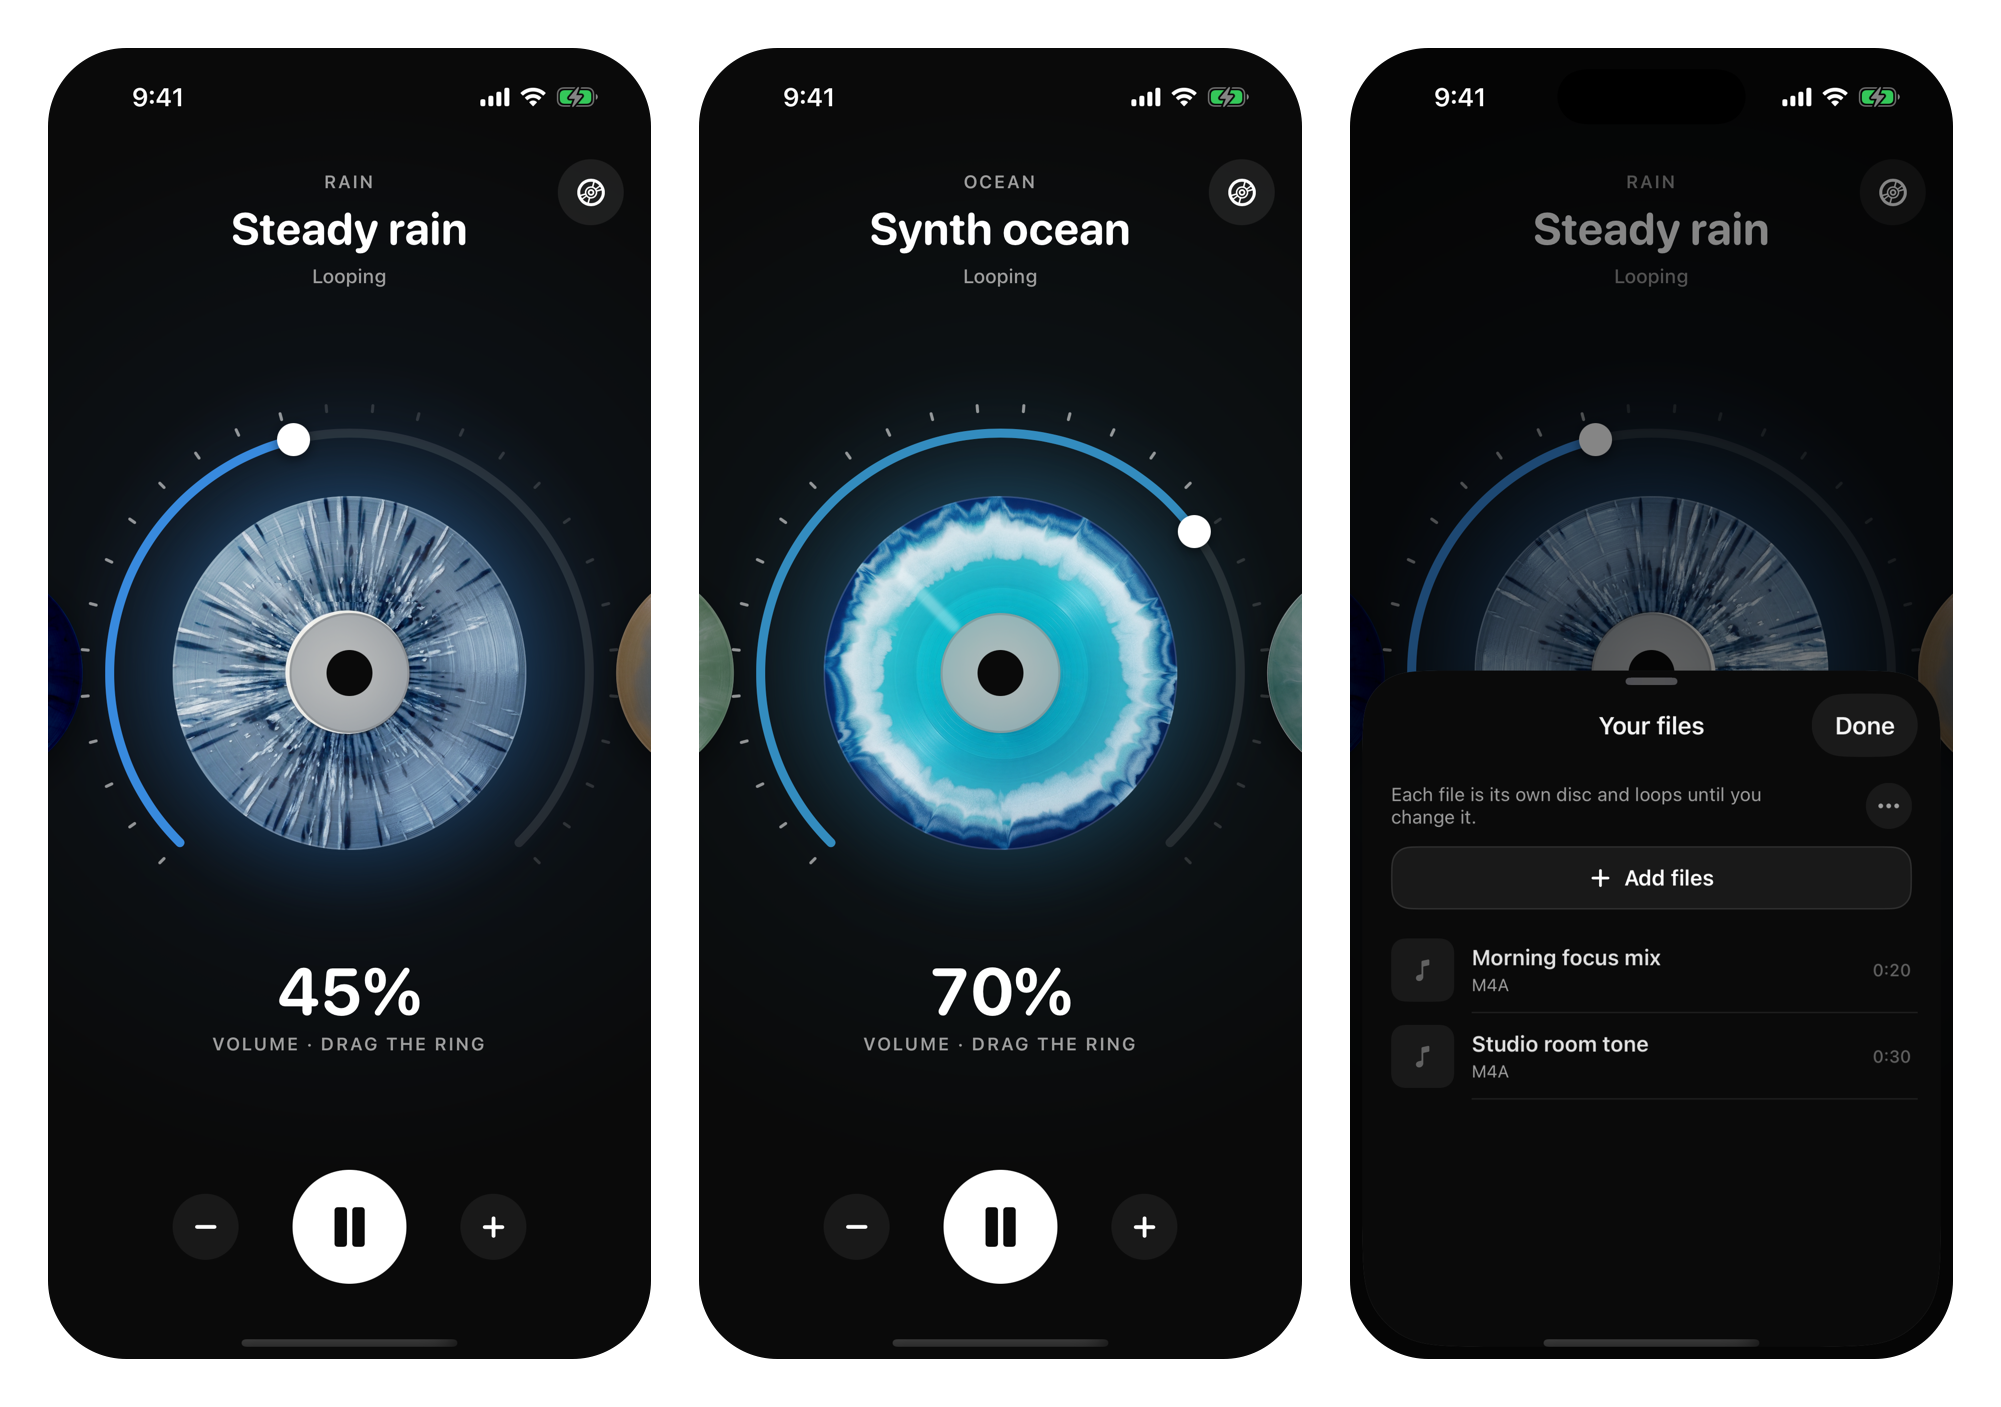
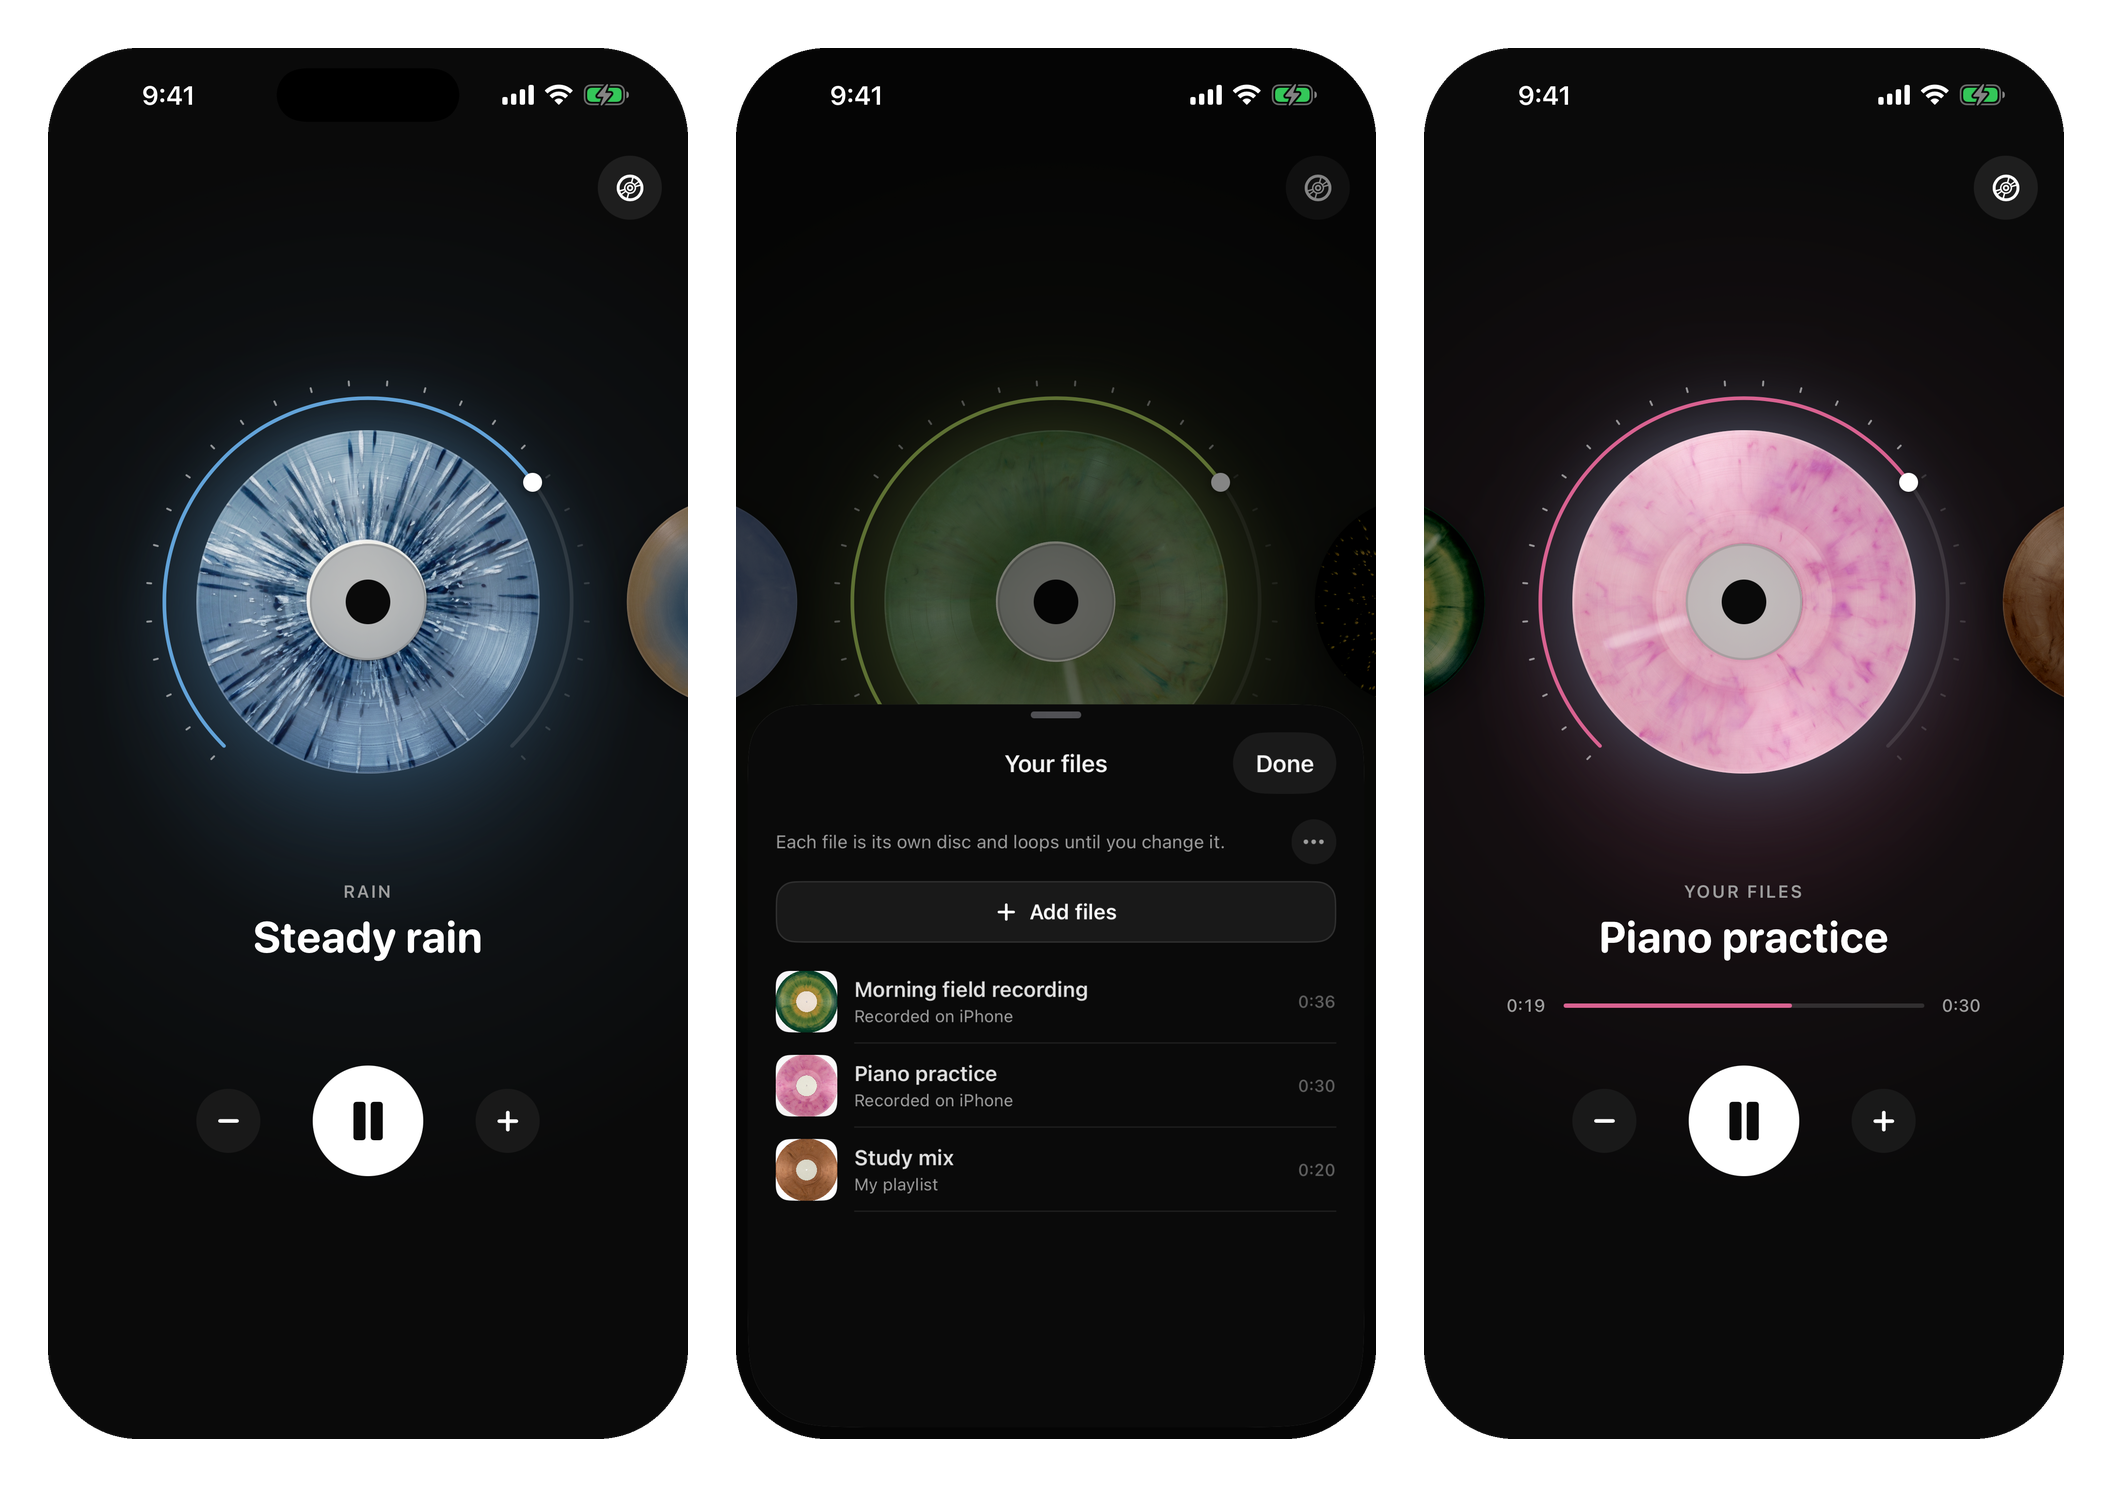
Public-readiness pass: README for 1.0, MIT license, untrack working files
- README rewritten in the madebysan format for the shipped 1.0: new three-screen
  hero from the store captures, How it works, Privacy, Limits, Install; device IDs
  and the backlog link removed. Reference detail moved to docs/how-it-works.md.
- MIT LICENSE added (code and disc art; the loops stay CC0 per CREDITS.md).
- backlog.md untracked (kept locally via .git/info/exclude).
- fastlane/test_output untracked and ignored; video render output ignored.

diff --git a/README.md b/README.md
@@ -2,10 +2,10 @@
 
 <h1>Duet</h1>
 
-<p>Play local audio quietly under another iPhone app.<br>
-Built for music, loops, and audiobooks while YouTube or another audio app keeps playing.</p>
+<p>An iPhone audio player that keeps playing under other apps.<br>
+Rain, forest and ocean loops, or your own files, mixed under YouTube, podcasts or anything else.</p>
 
-<p><strong>Version 0.1</strong> · iOS 17+ · personal device build</p>
+<p><strong>Version 1.0</strong> · iOS 17 or later · iPhone</p>
 
 <p>
   <img src="https://img.shields.io/badge/Swift-f05138" alt="Swift">
@@ -13,64 +13,40 @@ Built for music, loops, and audiobooks while YouTube or another audio app keeps 
   <img src="https://img.shields.io/badge/iOS-000000" alt="iOS">
 </p>
 
-![Duet on iPhone: Steady rain looping at 45% inside the volume dial, Synth ocean at 70%, and the Your files sheet with two demo files](assets/screenshot.png)
+![Duet on iPhone: Steady rain playing inside the volume ring, the Your files sheet with three demo recordings, and a pink demo disc called Piano practice with its scrub line](assets/screenshot.png)
 
-Duet uses a mixable `AVAudioSession` so its audio keeps playing when another app starts audio: YouTube, Podcasts, Spotify, anything. iOS normally lets these apps interrupt each other; Duet runs under them.
+Duet plays audio under whatever else your iPhone is playing. Start a rain loop, then open YouTube, a podcast or Spotify: iOS would normally stop one for the other, but Duet keeps going underneath at its own level. It is for anyone who wants steady background sound, or an audiobook, behind another app.
 
-Everything is on one screen: a CD in the middle of a volume dial (drag the ring to set the level), swipe to change discs, and a big play button. Each built-in sound (noise, rain, forest, ocean) has its own vinyl disc that glows and spins while playing. Files you add from Files, iCloud, or Google Drive each become a disc of their own and are remembered across launches. One disc plays at a time, and it loops until you change it.
+- Ten recorded loops ship with it, rain, forest and ocean, each on its own disc.
+- Files from iCloud or Google Drive become discs too, and remember where you stopped.
+- One screen: swipe between discs, tap to play, drag the ring to set the volume.
 
-Not on TestFlight or the App Store. Personal build signed to a connected iPhone.
+## How it works
 
-## Project Walkthrough
+Duet opens its audio session as playback that mixes with others. iOS then lets it run alongside the app in front instead of interrupting it, with the screen off too. The lock screen shows the current disc with play, pause, next and previous.
 
-| File | Role |
-|---|---|
-| `MixLayerApp.swift` | App entry point. Creates `AudioPlayerModel`, boots the library on launch, supports `--autoplay-sample` for QA (plays the first sound). |
-| `AudioPlayerModel.swift` | Core model: mixable audio session, built-in sounds, your files with bookmarks, looping, volume, interruptions, lock-screen controls. |
-| `PlaybackLogic.swift` | Pure, unit-tested logic: disc order for next/previous, volume stepping, dial geometry, disc spin math. |
-| `SoundCatalog.swift` | Built-in sounds, their categories, disc finishes, and `DiscAccent` (glow colour picked from each disc's art). |
-| `AudioTrack.swift` | `AudioTrack` for a sound or a file; `load()` reads file metadata and covers. |
-| `FLACTags.swift` | Reads FLAC titles, artists, albums and covers, which Apple's metadata API skips. |
-| `AudioMetadataCache.swift` | On-device metadata cache so reopening the same files is fast. |
-| `ContentView.swift` | Main screen (header, volume dial around the disc carousel, transport) and the Your files sheet. |
-| `DiscViews.swift` | Disc face, spinning disc, and the carousel disc. |
-| `scripts/crop-disc-art.swift` | Crops a generated top-down vinyl photo to a tight square for `Assets.xcassets/DiscArt`. |
-| `scripts/generate-disc-art.swift` | Renders placeholder disc art for any sound that doesn't have an image yet; keeps existing images unless `--force`. |
-| `scripts/cut-cc0-loops.sh` | Cuts the shipping loops (up to 10 minutes each) from the CC0 Freesound recordings listed in `MixLayer/Resources/Sounds/CREDITS.md`. |
-| `scripts/cut-personal-loops.sh` / `cut-loop.py` | Cuts seamless, level-matched loops from san's downloaded recordings into the git-ignored `MixLayer/PersonalSounds/` (Debug builds only). `cut-loop.py` also cuts the licensed loops in `MixLayer/Resources/Sounds/`. |
-| `project.yml` | XcodeGen source. Re-generate with `xcodegen generate` if changed. |
+The disc in the middle is the one playing. Swipe anywhere to move to the next disc, tap it to play or pause, and drag the small knob around the ring to set Duet's level, which is separate from the system volume. Every disc loops until you change it.
 
-## Agent Onboarding
+The record button at the top right opens Your files. Add files picks audio with the system document picker, and anything you drop into On My iPhone › Duet in the Files app appears there on its own. Duet reads AAC, AIFF, CAF, FLAC, M4A, M4B, MP3 and WAV, including FLAC titles and cover art, which Apple's metadata API skips. Files get a thin scrub line and resume where you left them.
 
-If you are starting work on Duet, read these first in order:
+The built-in loops are CC0 field recordings from [Freesound](https://freesound.org), cut into seamless loops; every source is listed in [CREDITS.md](MixLayer/Resources/Sounds/CREDITS.md). The disc art is our own, generated for each sound.
 
-1. **`AGENTS.md`**: build and install commands, constraints (`.mixWithOthers`, file picking, looping)
-2. **`plan.md`**: current state, what was verified, next steps
-3. **`backlog.md`**: upcoming work by area
+## Privacy
 
-## Build
+No accounts, no analytics, no network calls. Picked files stay where they are; Duet keeps a bookmark to each one, a small metadata cache, the volume and the resume positions on the device. The full policy is at [santiagoalonso.com/duet/privacy](https://santiagoalonso.com/duet/privacy).
 
-`AGENTS.md` has the exact device-build and install commands. General flow:
+## Limits
 
-```bash
-xcodegen generate
-xcodebuild -project MixLayer.xcodeproj -scheme MixLayer -destination 'platform=iOS,id=00008150-000A48500132401C' -derivedDataPath build/DerivedData -allowProvisioningUpdates build
-xcrun devicectl device install app --device CFC63A02-476D-534D-A1FC-815D2D8EF980 build/DerivedData/Build/Products/Debug-iphoneos/MixLayer.app
-```
+One disc plays at a time; there is no layering of two sounds. Portrait iPhone only. The Xcode project, scheme and bundle id still carry Duet's first name, MixLayer.
 
-Clean build if you hit stale caching:
+## Install
 
-```bash
-rm -rf build/DerivedData
-```
+Duet 1.0 was submitted to the App Store on October 18, 2026 and is waiting for review; the store link goes here when it is approved. Support is at [santiagoalonso.com/duet/support](https://santiagoalonso.com/duet/support).
 
-## Key Constraints
-
-- **Do not remove `.mixWithOthers`.** Playing under other apps is the whole point of Duet.
-- **Import by picking files only.** Folder import was removed on 2026-10-17.
-- **Google Drive support stays as file-picker fallback** unless Drive API integration is explicitly requested.
-- **Never commit `build/`** or DerivedData.
+To build it yourself you need Xcode 27 and [XcodeGen](https://github.com/yonaskolb/XcodeGen). Run `xcodegen generate`, open `MixLayer.xcodeproj`, and run the MixLayer scheme on a simulator or your iPhone. The source files, device install command, tests, scripts and release lanes are in [docs/how-it-works.md](docs/how-it-works.md).
 
 ---
+
+[MIT](LICENSE) for the code and the disc art. The ten loops are CC0 recordings credited in [CREDITS.md](MixLayer/Resources/Sounds/CREDITS.md).
 
 Made by [santiagoalonso.com](https://santiagoalonso.com)

diff --git a/docs/how-it-works.md b/docs/how-it-works.md
@@ -1,0 +1,62 @@
+# How Duet works
+
+Reference detail for the [Duet README](../README.md): the source files, how to build and test, the scripts, and the release lanes.
+
+## Source files
+
+The Xcode project, target and bundle id still say MixLayer, Duet's first name. Everything lives in `MixLayer/`.
+
+| File | Role |
+|---|---|
+| `MixLayerApp.swift` | App entry point. Creates `AudioPlayerModel`, boots the library on launch, supports `--autoplay-sample` for QA (plays the first sound). |
+| `AudioPlayerModel.swift` | Core model: mixable audio session, built-in sounds, your files with bookmarks, looping, volume, interruptions, lock-screen controls. |
+| `PlaybackLogic.swift` | Pure, unit-tested logic: disc order for next and previous, volume stepping, dial geometry, disc spin math. |
+| `SoundCatalog.swift` | Built-in sounds, their categories, disc finishes, and `DiscAccent` (the glow colour picked from each disc's art). |
+| `AudioTrack.swift` | `AudioTrack` for a sound or a file; `load()` reads file metadata and covers. |
+| `FLACTags.swift` | Reads FLAC titles, artists, albums and covers, which Apple's metadata API skips. |
+| `AudioMetadataCache.swift` | On-device metadata cache so reopening the same files is fast. |
+| `ContentView.swift` | Main screen (volume dial around the disc carousel, transport) and the Your files sheet. |
+| `DiscViews.swift` | Disc face, spinning disc, and the carousel disc. |
+| `Resources/Sounds/` | The ten shipped loops and `CREDITS.md`, which records the source and license of each one. |
+| `Assets.xcassets/DiscArt/` | One square image per built-in sound; the app clips it to a circle and draws the hub over the centre. |
+| `PrivacyInfo.xcprivacy` | Privacy manifest: no tracking, no collected data, UserDefaults and file-timestamp API reasons. |
+
+`project.yml` is the XcodeGen source. Regenerate the project with `xcodegen generate` after changing it.
+
+## Build and test
+
+Requirements: Xcode 27 and [XcodeGen](https://github.com/yonaskolb/XcodeGen). To build for a connected iPhone:
+
+```bash
+xcodegen generate
+xcodebuild -project MixLayer.xcodeproj -scheme MixLayer -destination 'generic/platform=iOS' -derivedDataPath build/DerivedData -allowProvisioningUpdates build
+```
+
+Then install with `xcrun devicectl device install app --device <your device id> build/DerivedData/Build/Products/Debug-iphoneos/MixLayer.app`. `xcrun devicectl list devices` prints the id. If the build picks up stale caches, remove `build/DerivedData` and build again.
+
+Unit tests cover the pure playback logic, disc glow colours and the FLAC tag reader. They run on a simulator:
+
+```bash
+xcodebuild -project MixLayer.xcodeproj -scheme MixLayer -destination 'platform=iOS Simulator,name=iPhone 17 Pro' -derivedDataPath build/DerivedData-sim test
+```
+
+## Scripts
+
+| Script | What it does |
+|---|---|
+| `scripts/cut-cc0-loops.sh` | Downloads nothing itself; cuts the shipped loops (up to 10 minutes each, 3 s crossfade at the seam, levelled to about -21 dBFS) from the CC0 Freesound recordings listed in `CREDITS.md`. |
+| `scripts/cut-loop.py` | The loop cutter the shell scripts call: finds a quiet seam, crossfades, levels, writes AAC. |
+| `scripts/cut-personal-loops.sh` | Cuts loops from your own recordings into `MixLayer/PersonalSounds/`, which is git-ignored and bundled by Debug builds only. Release builds never include it, and the Fastlane build lane fails if a file from it reaches the IPA. |
+| `scripts/crop-disc-art.swift` | Crops a generated top-down vinyl image to a tight square for `Assets.xcassets/DiscArt`. |
+| `scripts/generate-disc-art.swift` | Renders placeholder disc art for any sound that has no image yet; keeps existing images unless `--force`. |
+
+## Release lanes
+
+`fastlane/Fastfile` holds the App Store lanes: `preflight` (tests plus a signed Release archive), `build`, `upload_testflight`, `push_metadata`, `upload_screenshots`, `readiness`, `presubmit_check`, and `submit_app_store_review`. Credentials come from a git-ignored `fastlane/.env`; `fastlane/.env.example` lists the variables. Listing text lives in `fastlane/metadata/`, the store screenshots in `fastlane/screenshots/en-US/`. Run Fastlane with `LC_ALL=en_US.UTF-8`.
+
+## Design constraints
+
+- `.mixWithOthers` stays. Playing under other apps is the whole point of Duet.
+- Files are added by picking them. Folder import was removed on 2026-10-17 because the Files picker is enough and keeps bookmarks simple.
+- One disc plays at a time, and every disc loops on its own.
+- `DESIGN.md` owns the look and motion of the CD library. Read it before UI work.
